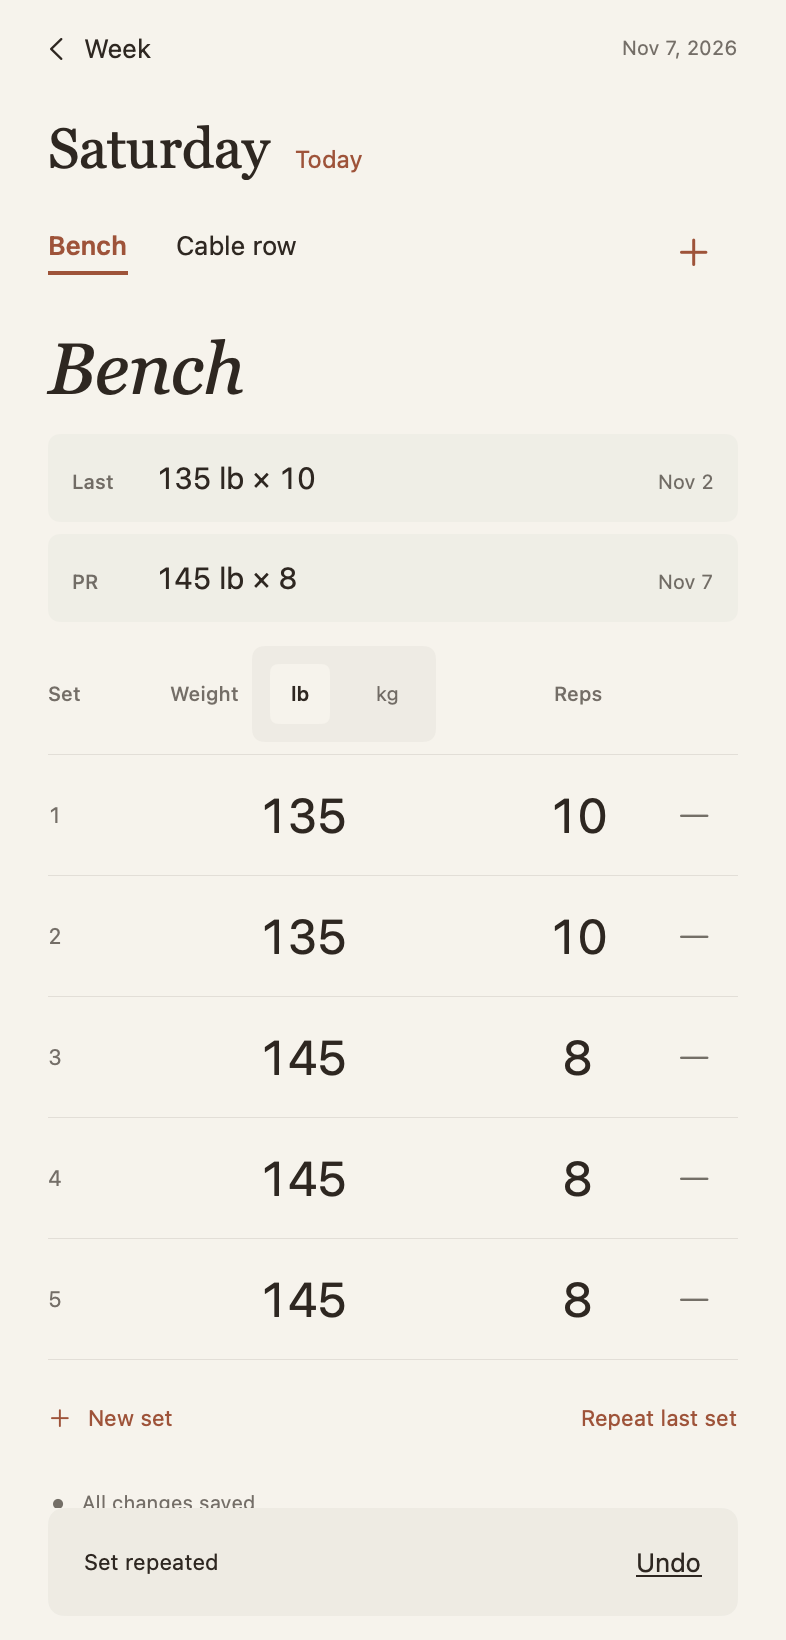
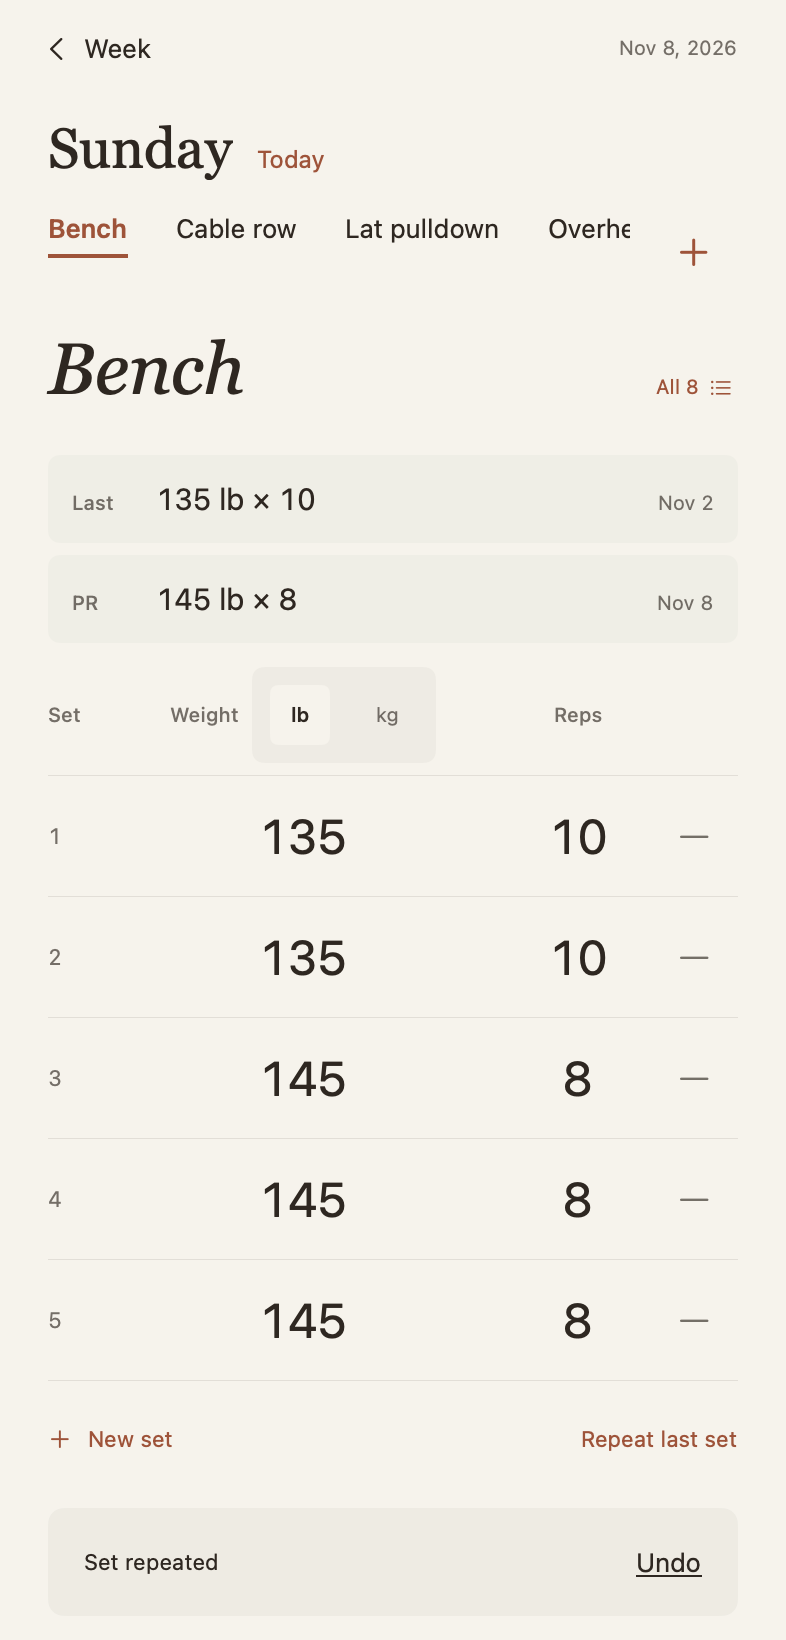
Add a full day exercise index with logged set counts

diff --git a/Sources/SendaNotebook/TrainingDayView.swift b/Sources/SendaNotebook/TrainingDayView.swift
@@ -5,11 +5,17 @@ import SendaLogger
 import UIKit
 #endif
 
+private enum TrainingDaySheet: String, Identifiable {
+    case picker, exercises
+    var id: String { rawValue }
+}
+
 struct TrainingDayView: View {
     @Bindable var model: TrainingNotebookModel
     let day: TrainingDay
-    @State private var picking = false
+    @State private var presentedSheet: TrainingDaySheet?
     @State private var tabPosition: String?
+    @ScaledMetric(relativeTo: .body) private var tabLineHeight: CGFloat = 22
     @Environment(\.accessibilityReduceMotion) private var reduceMotion
     var body: some View {
         ScrollViewReader { scroll in
@@ -47,20 +53,33 @@ struct TrainingDayView: View {
                                         .id(exercise.id)
                                 }
                             }.scrollTargetLayout()
-                        }.scrollIndicators(.hidden).scrollPosition(id: $tabPosition, anchor: .center)
-                        Button { if model.finishEditing() { picking = true } } label: { Image(systemName: "plus").font(.title2).frame(width: 44, height: 44) }
+                        }.frame(height: max(44, tabLineHeight + 12))
+                            .scrollIndicators(.hidden).scrollPosition(id: $tabPosition, anchor: .center)
+                        Button { if model.finishEditing() { presentedSheet = .picker } } label: { Image(systemName: "plus").font(.title2).frame(width: 44, height: 44) }
                             .foregroundStyle(NotebookStyle.clay)
                             .accessibilityLabel("Add exercise").accessibilityIdentifier("add-exercise")
                     }
                     if let exercise = model.exercise {
-                        Text(exercise.name).font(NotebookTypography.heading(36, italic: true)).lineLimit(2).minimumScaleFactor(0.7)
-                            .padding(.top, 4)
-                            .accessibilityIdentifier("entry-exercise")
+                        HStack(alignment: .firstTextBaseline, spacing: 12) {
+                            Text(exercise.name).font(NotebookTypography.heading(36, italic: true)).lineLimit(2).minimumScaleFactor(0.7)
+                                .frame(maxWidth: .infinity, alignment: .leading)
+                                .accessibilityIdentifier("entry-exercise")
+                            if model.tabs.count > 1 {
+                                Button { if model.finishEditing() { presentedSheet = .exercises } } label: {
+                                    HStack(spacing: 5) {
+                                        Text("All \(model.tabs.count)").monospacedDigit()
+                                        Image(systemName: "list.bullet")
+                                    }.font(.caption).frame(minWidth: 44, minHeight: 44)
+                                }.foregroundStyle(NotebookStyle.clay)
+                                    .accessibilityLabel("View all \(model.tabs.count) exercises")
+                                    .accessibilityIdentifier("all-exercises")
+                            }
+                        }.padding(.top, 4)
                         if model.lastReference != nil || model.personalBest != nil { TrainingReferenceBanners(model: model) }
                         TrainingSetRows(model: model).id("\(day.rawValue)/\(exercise.id)")
                         TrainingSaveStatus(model: model).id("\(day.rawValue)/\(exercise.id)")
                     } else {
-                        Button { if model.finishEditing() { picking = true } } label: { Label("Add exercise", systemImage: "plus").frame(minHeight: 52) }
+                        Button { if model.finishEditing() { presentedSheet = .picker } } label: { Label("Add exercise", systemImage: "plus").frame(minHeight: 52) }
                             .foregroundStyle(NotebookStyle.clay).accessibilityIdentifier("empty-add-exercise")
                     }
                     if let error = model.errorMessage { TrainingSaveError(model: model, message: error) }
@@ -84,7 +103,15 @@ struct TrainingDayView: View {
                     }
                 }.background(NotebookStyle.ivory).accessibilityElement(children: .contain).accessibilityIdentifier("day-controls")
             }
-            .sheet(isPresented: $picking) { TrainingExercisePicker(model: model, close: { picking = false }) }
+            .sheet(item: $presentedSheet) { destination in
+                switch destination {
+                case .picker:
+                    TrainingExercisePicker(model: model, close: { presentedSheet = nil })
+                case .exercises:
+                    TrainingDayExerciseList(model: model, day: day, close: { presentedSheet = nil },
+                        add: { presentedSheet = .picker })
+                }
+            }
             .task(id: model.focus?.id) {
                 if let row = model.focus?.rowID {
                     await Task.yield()

diff --git a/Sources/SendaNotebook/TrainingDayExerciseList.swift b/Sources/SendaNotebook/TrainingDayExerciseList.swift
@@ -1,0 +1,78 @@
+import SwiftUI
+import SendaDomain
+import SendaLogger
+
+public struct TrainingDayExerciseList: View {
+    @Bindable private var model: TrainingNotebookModel
+    private let day: TrainingDay
+    private let close: () -> Void
+    private let add: () -> Void
+
+    public init(model: TrainingNotebookModel, day: TrainingDay, close: @escaping () -> Void, add: @escaping () -> Void) {
+        self.model = model; self.day = day; self.close = close; self.add = add
+    }
+
+    private var exercises: [Exercise] { model.selectedDay == day ? model.tabs : [] }
+
+    public var body: some View {
+        ScrollView {
+            VStack(alignment: .leading, spacing: 20) {
+                Button(action: close) { Label("Day", systemImage: "chevron.left").frame(minHeight: 44) }
+                    .accessibilityIdentifier("close-day-exercises")
+                VStack(alignment: .leading, spacing: 8) {
+                    Text("Your exercises").font(NotebookTypography.heading(32))
+                        .accessibilityIdentifier("day-exercises-title")
+                    Text("\(TrainingText.date(day, format: "EEEE, MMM d")) · \(exercises.count) exercises")
+                        .font(.subheadline).foregroundStyle(NotebookStyle.quiet)
+                }
+                VStack(spacing: 0) {
+                    ForEach(exercises) { exercise in
+                        let count = model.loggedSetCount(for: exercise.id, on: day)
+                        let selected = model.exercise?.id == exercise.id
+                        Button {
+                            if model.selectedDay == day && model.selectExercise(exercise.id) { close() }
+                        } label: {
+                            HStack(spacing: 12) {
+                                VStack(alignment: .leading, spacing: 4) {
+                                    Text(exercise.name).font(.body.weight(selected ? .semibold : .regular))
+                                        .foregroundStyle(NotebookStyle.ink).fixedSize(horizontal: false, vertical: true)
+                                    Text(countLabel(count)).font(.caption.monospacedDigit()).foregroundStyle(NotebookStyle.quiet)
+                                }.frame(maxWidth: .infinity, alignment: .leading)
+                                Image(systemName: "chevron.right").font(.caption).foregroundStyle(NotebookStyle.quiet)
+                            }
+                            .padding(.horizontal, 12).padding(.vertical, 14).frame(minHeight: 70)
+                            .background(selected ? NotebookStyle.clay.opacity(0.045) : .clear, in: RoundedRectangle(cornerRadius: 6))
+                            .overlay(alignment: .leading) {
+                                if selected { Capsule().fill(NotebookStyle.clay).frame(width: 2).padding(.vertical, 10) }
+                            }
+                            .contentShape(Rectangle())
+                        }
+                        .accessibilityLabel("\(exercise.name), \(countLabel(count))")
+                        .accessibilityAddTraits(selected ? .isSelected : [])
+                        .accessibilityIdentifier("day-exercise-\(exercise.id)")
+                        Rectangle().fill(NotebookStyle.rule).frame(height: 0.5)
+                    }
+                    if exercises.isEmpty {
+                        Text("No exercises yet").font(.callout).foregroundStyle(NotebookStyle.quiet).padding(.vertical, 20)
+                    }
+                }
+                Button {
+                    if model.selectedDay == day { add() }
+                } label: {
+                    Label("Add exercise", systemImage: "plus").frame(minHeight: 48)
+                }.foregroundStyle(NotebookStyle.clay).accessibilityIdentifier("day-list-add-exercise")
+                if let error = model.errorMessage { Text(error).font(.callout).foregroundStyle(NotebookStyle.clay) }
+            }
+            .padding(.horizontal, 24).padding(.vertical, 12).frame(maxWidth: 560).frame(maxWidth: .infinity)
+        }
+        .accessibilityIdentifier("day-exercises-scroll")
+        .background(NotebookStyle.ivory).foregroundStyle(NotebookStyle.ink).tint(NotebookStyle.clay).buttonStyle(.plain)
+        #if os(macOS)
+        .frame(minWidth: 320, idealWidth: 393, minHeight: 568, idealHeight: 740)
+        #endif
+    }
+
+    private func countLabel(_ count: Int) -> String {
+        count == 0 ? "No sets yet" : "\(count) \(count == 1 ? "set" : "sets")"
+    }
+}

diff --git a/Tests/SendaUITests/LoggerUITests.swift b/Tests/SendaUITests/LoggerUITests.swift
@@ -138,6 +138,24 @@ final class LoggerUITests: XCTestCase {
         XCTAssertTrue(custom.waitForExistence(timeout: 5))
         XCTAssertTrue(custom.label.contains("added"))
         attach("Grouped local exercise picker", app)
+        let customID = String(custom.identifier.dropFirst("picker-".count))
+        tap("close-exercise-picker", in: app)
+        tap("all-exercises", in: app)
+        XCTAssertTrue(element("day-exercise-bench", in: app).label.contains("No sets yet"))
+        XCTAssertTrue(element("day-exercise-\(customID)", in: app).label.contains("1 set"))
+        attach("Day exercise index and actual set counts", app)
+        tap("day-exercise-bench", in: app)
+        XCTAssertEqual(element("entry-exercise", in: app).label, "Bench")
+        tap("all-exercises", in: app)
+        tap("day-exercise-\(customID)", in: app)
+        XCTAssertTrue(element("row-1-weight", in: app).label.contains("50 lb"))
+        tap("all-exercises", in: app)
+        tap("day-list-add-exercise", in: app)
+        _ = element("exercise-search", in: app)
+        tap("close-exercise-picker", in: app)
+        app.terminate(); app.launch()
+        XCTAssertEqual(element("entry-exercise", in: app).label, "Travel row")
+        XCTAssertTrue(element("row-1-reps", in: app).label.contains("8 reps"))
     }
 
     @MainActor
@@ -253,9 +271,10 @@ final class LoggerUITests: XCTestCase {
         }
         let picker = app.scrollViews["exercise-picker-scroll"]
         let custom = app.scrollViews["custom-exercise-scroll"]
-        let scroll = picker.exists ? picker : (custom.exists ? custom : app.scrollViews.firstMatch)
-        let inPickerContent = (picker.exists || custom.exists) && scroll.descendants(matching: .any).matching(identifier: id).firstMatch.exists
-        if inPickerContent || !target.isHittable {
+        let dayIndex = app.scrollViews["day-exercises-scroll"]
+        let scroll = picker.exists ? picker : (custom.exists ? custom : (dayIndex.exists ? dayIndex : app.scrollViews.firstMatch))
+        let inSheetContent = (picker.exists || custom.exists || dayIndex.exists) && scroll.descendants(matching: .any).matching(identifier: id).firstMatch.exists
+        if inSheetContent || !target.isHittable {
             var upward = true
             var recoveringTarget = false
             for _ in 0..<20 {
@@ -289,7 +308,7 @@ final class LoggerUITests: XCTestCase {
                         thenDragTo: origin.withOffset(CGVector(dx: app.frame.width / 2, dy: endY - app.frame.minY)),
                         withVelocity: .slow, thenHoldForDuration: 0.25)
             }
-            if inPickerContent {
+            if inSheetContent {
                 let keyboard = app.keyboards.firstMatch
                 let bottom = min(scroll.frame.maxY - 16, app.frame.maxY - 36,
                     keyboard.exists ? keyboard.frame.minY - 72 : app.frame.maxY)

diff --git a/Sources/SendaPreview/Preview.swift b/Sources/SendaPreview/Preview.swift
@@ -27,10 +27,16 @@ struct SendaPreview {
         let model = try TrainingNotebookModel(repository: MemoryJournalRepository(journal: SampleJournal.makeWeek(relativeTo: date)), isSample: true, now: { date })
         try render(TrainingNotebookView(model: model), to: directory.appendingPathComponent("senda-week.png"))
         _ = model.openDay(model.today)
-        _ = model.addExercise("cable-row")
+        for id in ["cable-row", "lat-pulldown", "overhead-press", "lateral-raise", "biceps-curl", "triceps-extension", "push-up"] {
+            _ = model.addExercise(id)
+        }
         _ = model.selectExercise("bench")
         try render(TrainingNotebookView(model: model), to: directory.appendingPathComponent("senda-day.png"))
         try render(TrainingNotebookView(model: model), to: directory.appendingPathComponent("senda-draft.png"))
+        try render(TrainingDayExerciseList(model: model, day: model.today, close: {}, add: {}),
+                   to: directory.appendingPathComponent("senda-day-exercises.png"))
+        try render(TrainingDayExerciseList(model: model, day: model.today, close: {}, add: {}),
+                   to: directory.appendingPathComponent("senda-day-exercises-compact.png"), width: 320, height: 568)
         try render(TrainingExercisePicker(model: model, close: {}), to: directory.appendingPathComponent("senda-picker.png"))
         try render(TrainingNotebookView(model: model), to: directory.appendingPathComponent("senda-compact.png"), width: 320, height: 568)
         _ = model.repeatLastSet()

diff --git a/Tests/SendaLoggerTests/TrainingNotebookTests.swift b/Tests/SendaLoggerTests/TrainingNotebookTests.swift
@@ -17,6 +17,28 @@ import SendaPersistence
         #expect(model.selectInput(row.id, field: .reps))
         model.typeInput(reps, focus: try #require(model.focus))
     }
+    @Test func exerciseListCountsArePerformedExerciseAndDaySpecific() throws {
+        let m = try model()
+        #expect(m.openDay(day)); #expect(m.addExercise("bench"))
+        try enter(m, weight: "135", reps: "10")
+        #expect(m.loggedSetCount(for: "bench", on: day) == 0)
+        #expect(m.finishEditing())
+        #expect(m.newSet())
+        #expect(m.loggedSetCount(for: "bench", on: day) == 1)
+        #expect(m.addExercise("cable-row"))
+        #expect(m.loggedSetCount(for: "cable-row", on: day) == 0)
+        try enter(m, weight: "50", reps: "12"); #expect(m.finishEditing())
+        let previous = try day.adding(days: -1)
+        #expect(m.openDay(previous)); #expect(m.addExercise("bench"))
+        try enter(m, weight: "145", reps: "8"); #expect(m.finishEditing())
+        #expect(m.repeatLastSet())
+        #expect(m.loggedSetCount(for: "bench", on: previous) == 2)
+        #expect(m.loggedSetCount(for: "bench", on: day) == 1)
+        #expect(m.loggedSetCount(for: "cable-row", on: day) == 1)
+        #expect(m.loggedSetCount(for: "cable-row", on: previous) == 0)
+        #expect(m.loggedSetCount(for: "unknown", on: day) == 0)
+    }
+
     @Test func weekCategoriesAreUniqueStableAndOnlyIncludePerformedExercises() throws {
         let m = try model()
         #expect(m.openDay(day))

diff --git a/Sources/SendaLogger/TrainingNotebookModel.swift b/Sources/SendaLogger/TrainingNotebookModel.swift
@@ -66,6 +66,9 @@ public struct TrainingPerformanceReference: Equatable, Sendable {
     public func exercise(_ id: String) -> Exercise {
         exercises.first { $0.id == id } ?? Exercise(id: id, name: id, shortName: id, startingWeight: 0)
     }
+    public func loggedSetCount(for exerciseID: String, on day: TrainingDay) -> Int {
+        workspace.days[day.rawValue]?.rows[exerciseID]?.filter { $0.performedSetID != nil }.count ?? 0
+    }
     public func summary(for day: TrainingDay) -> TrainingDaySummary {
         guard let workout = workspace.days[day.rawValue] else { return TrainingDaySummary(exercises: [], muscleGroups: [], setCount: 0) }
         let order = workout.exerciseIDs + workout.rows.keys.sorted().filter { !workout.exerciseIDs.contains($0) }

diff --git a/scripts/preview.py b/scripts/preview.py
@@ -31,6 +31,7 @@ small{font-size:12px}#status{float:right;font-size:12px}</style></head><body>
 <small>Actual SwiftUI screen, rendered on this Mac at phone size. For interactive controls, use the “Senda — Live preview” window.</small></header>
 <main><figure><figcaption>Week</figcaption><img data-file="senda-week.png"></figure>
 <figure><figcaption>Day</figcaption><img data-file="senda-day.png"></figure>
+<figure><figcaption>Day exercises</figcaption><img data-file="senda-day-exercises.png"></figure>
 <figure><figcaption>Add exercise</figcaption><img data-file="senda-picker.png"></figure></main>
 <script>let previous='';async function refresh(){try{let s=await(await fetch('/status.json',{cache:'no-store'})).json();
 document.querySelector('#status').textContent=s.building?'Updating preview…':'Preview ready';

diff --git a/README.md b/README.md
@@ -13,6 +13,7 @@ The project has no third-party dependencies or generation step.
 ## Notebook flow
 
 - **Week → Day → Exercise.** A Monday–Sunday list shows each day's trained muscle groups and set count. Categories appear once, using only performed sets; opening the day shows the individual exercises and sets. Previous/next controls browse weeks. Open any day; **‹ Week** returns to its week. Each day retains its own exercise tabs and selection.
+- When a day has multiple exercises, **All N** beside its exercise title opens the full day list. Each row shows its actual logged-set count, or **No sets yet**. Select one to return to its existing sets, or choose **Add exercise** from the list.
 - Use **+** to browse exercises by muscle group, narrow by equipment, or search across groups. Flat rows show **Added** when already in the day. **Create exercise** accepts a name, muscle group and equipment. Existing unclassified custom exercises remain searchable under Full body / Other.
 - Each set has one weight value and reps. The **lb/kg switch beside Weight** changes the display unit without rounding untouched canonical values. **Last** and **PR** are separate banners. Last is the previous training day's top set; PR ranks performed weight first, then reps. Tap either to open its source day. There is no Common banner.
 - A newly added exercise starts with a blank row. **New set** adds another blank row and focuses Weight, or Reps for bodyweight exercises. No zero-weight batch is prefilled.
@@ -29,7 +30,7 @@ The project has no third-party dependencies or generation step.
 python3 scripts/preview.py
 ```
 
-Open **http://127.0.0.1:8765** for actual SwiftUI renders of Week, Day and Add exercise. Use the **Senda — Live preview** Mac window for interactive controls. It has its own sample journal at `/tmp/senda-weekly-live-preview/journal.json`; the earlier preview journal is left intact. The browser serves only preview files on this Mac.
+Open **http://127.0.0.1:8765** for actual SwiftUI renders of Week, Day, the day exercise list and Add exercise. Use the **Senda — Live preview** Mac window for interactive controls. It has its own sample journal at `/tmp/senda-weekly-live-preview/journal.json`; the earlier preview journal is left intact. The browser serves only preview files on this Mac.
 
 The visual language uses ivory `#F7F3EB`, terracotta `#A94E32`, charcoal `#302720`, expressive serif titles and aligned tabular numerals. Georgia headings pair with system text and tabular numerals. An original tapered S-path is drawn natively, with an editable SVG in `docs/brand/senda-path.svg`; muted olive marks the identity and quiet save feedback. The day header is compact, reference banners are neutral, and separators are lighter. New rows enter gently and successful repeats briefly highlight their new row. Reduced Motion disables positional transitions and animated focus scrolling. The canonical original logo attachment remains unavailable; this mark is a new drawing for review.
 

diff --git a/docs/implementation/2026-11-08-day-exercise-list.md b/docs/implementation/2026-11-08-day-exercise-list.md
@@ -1,0 +1,17 @@
+# Day exercise list
+
+Next focused improvement: an index of every exercise added to the selected day. The optional direction question offered this and exercise history; proceed with the recommended index after allowing time for a reply. The user can steer the direction while development continues.
+
+Use a compact All N action beside the selected exercise title whenever the day has multiple exercises. Preserve horizontal tabs for quick switching. The index shows full names, performed-set counts (No sets yet for incomplete/unperformed rows), a clear current selection, and Add exercise. Selecting an exercise returns to its existing rows and brings its tab into view. The index uses the existing notebook palette and typography.
+
+A separate row below the tabs would use extra vertical space; a title-side action provides access without enlarging the compact day header. Reuse the existing selection and persistence commands. This pass adds browsing, selection and the path to Add exercise; it does not include an exercise-order editor or a history browser.
+
+Finish current editing successfully before opening the index. Never count incomplete rows or mix counts from other exercises/dates. Failed selection writes keep the index open with its current selection and error. Use one sheet route for the list and picker. Closing the sheet returns to the same day.
+
+Plan:
+- [x] Add and test loggedSetCount(for:on:) as a read-only application projection.
+- [x] Build TrainingDayExerciseList and the title-side All N entry point; reuse selectExercise and the existing picker.
+- [x] Add native eight-exercise renders and browser review; extend an iPhone flow to verify counts, selection, returning to original rows, Add exercise and reopening.
+- [ ] Run the full suite, inspect normal/compact layouts, review the complete changes and run both iPhone checks before handoff.
+
+Review focus: day/exercise isolation; incomplete rows versus actual counts; failed writes; selected exercise and input recovery across sheet transitions; full names and controls on narrow screens/large text. Domain and persistence formats remain unchanged. Approved planning/architecture documents stay intact.
